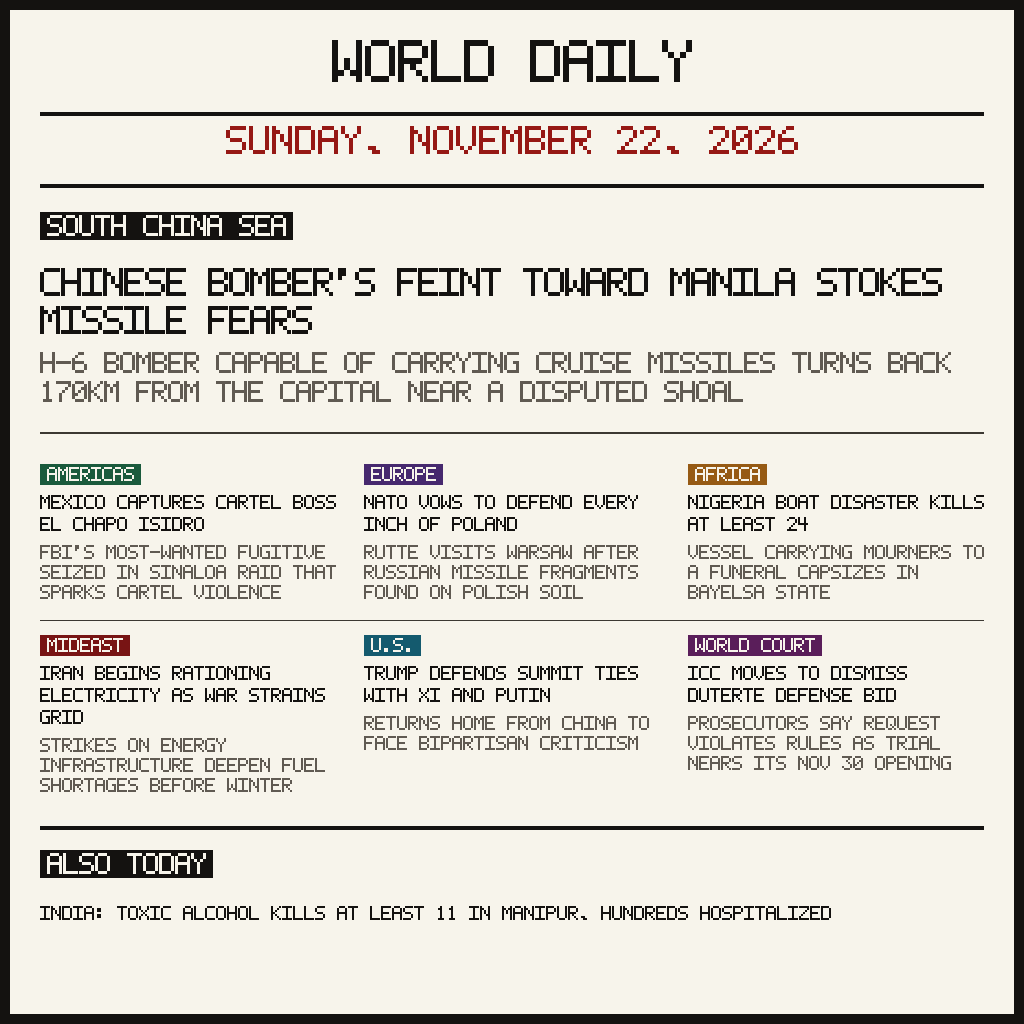
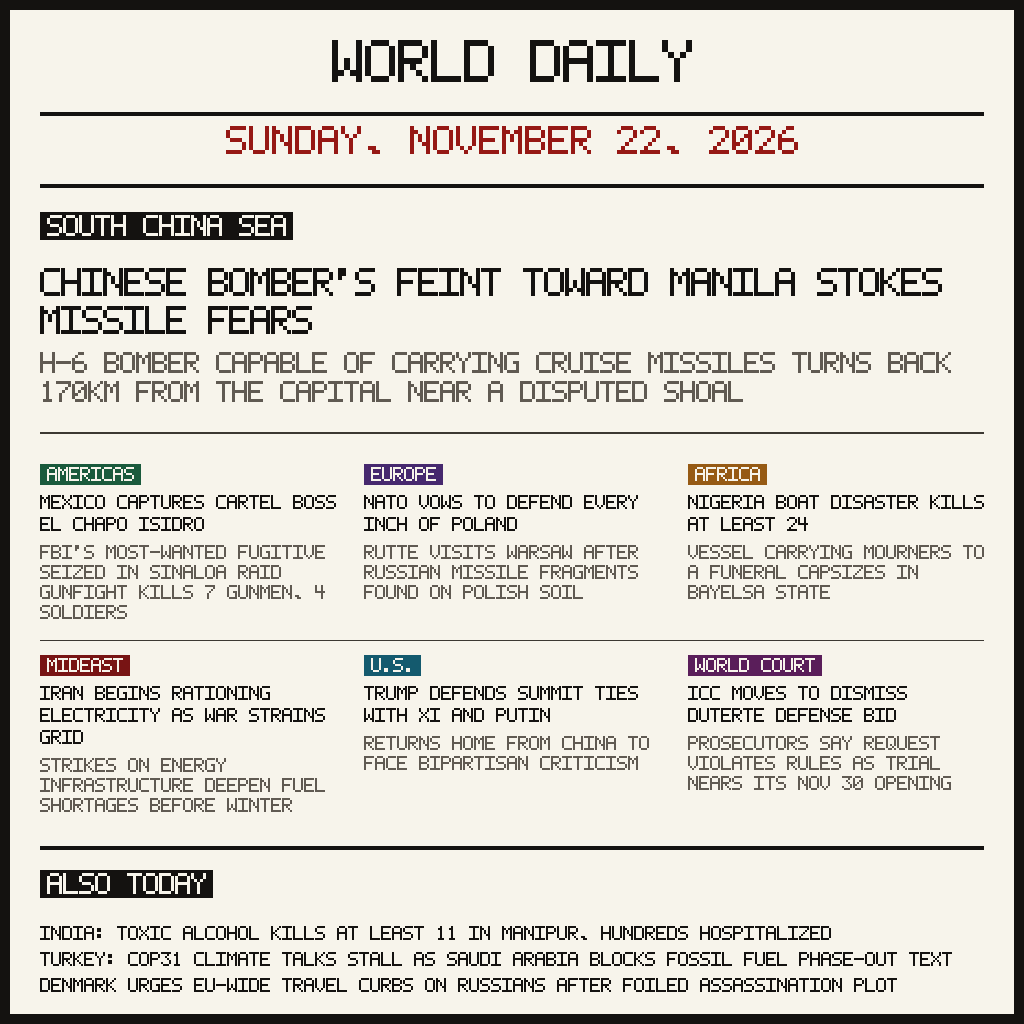
Add COP31 and Denmark/Russia stories to ticker; add cartel-raid casualty figures

diff --git a/main.py b/main.py
@@ -245,7 +245,7 @@ def build():
 
     stories = [
         ("AMERICAS", "MEXICO CAPTURES CARTEL BOSS EL CHAPO ISIDRO",
-         "FBI'S MOST-WANTED FUGITIVE SEIZED IN SINALOA RAID THAT SPARKS CARTEL VIOLENCE"),
+         "FBI'S MOST-WANTED FUGITIVE SEIZED IN SINALOA RAID; GUNFIGHT KILLS 7 GUNMEN, 4 SOLDIERS"),
         ("EUROPE", "NATO VOWS TO DEFEND EVERY INCH OF POLAND",
          "RUTTE VISITS WARSAW AFTER RUSSIAN MISSILE FRAGMENTS FOUND ON POLISH SOIL"),
         ("AFRICA", "NIGERIA BOAT DISASTER KILLS AT LEAST 24",
@@ -277,6 +277,8 @@ def build():
     y += 56
     ticker_lines = [
         "INDIA: TOXIC ALCOHOL KILLS AT LEAST 11 IN MANIPUR, HUNDREDS HOSPITALIZED",
+        "TURKEY: COP31 CLIMATE TALKS STALL AS SAUDI ARABIA BLOCKS FOSSIL FUEL PHASE-OUT TEXT",
+        "DENMARK URGES EU-WIDE TRAVEL CURBS ON RUSSIANS AFTER FOILED ASSASSINATION PLOT",
     ]
     for line in ticker_lines:
         for wrapped in wrap_text(line, 2, WIDTH - margin * 2):
